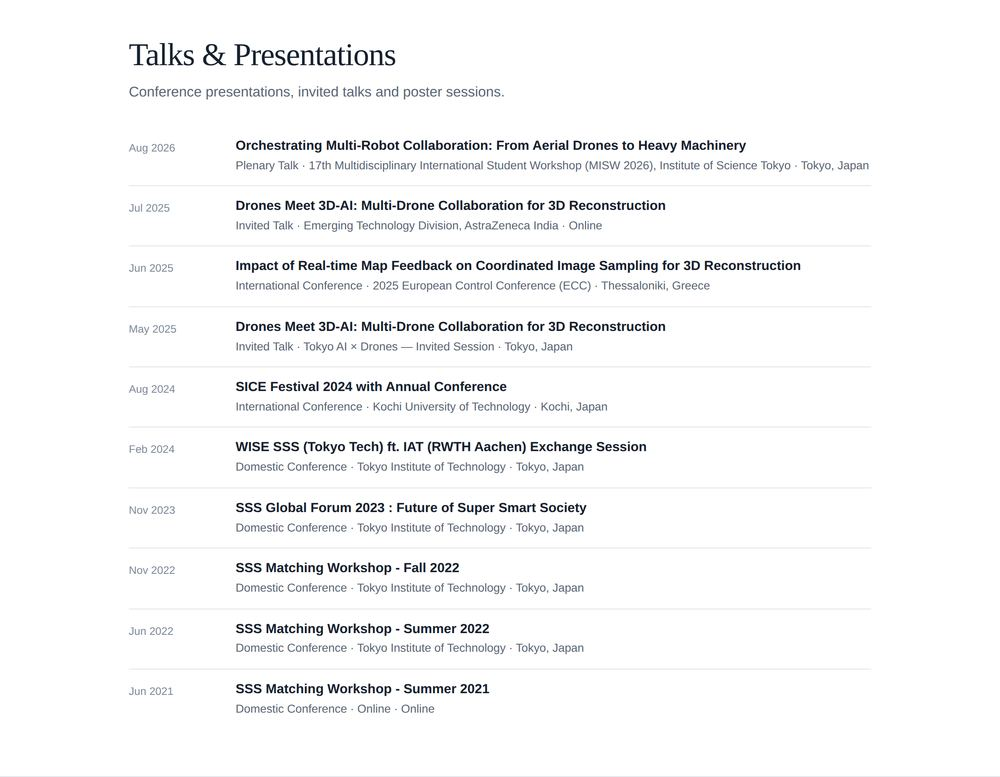
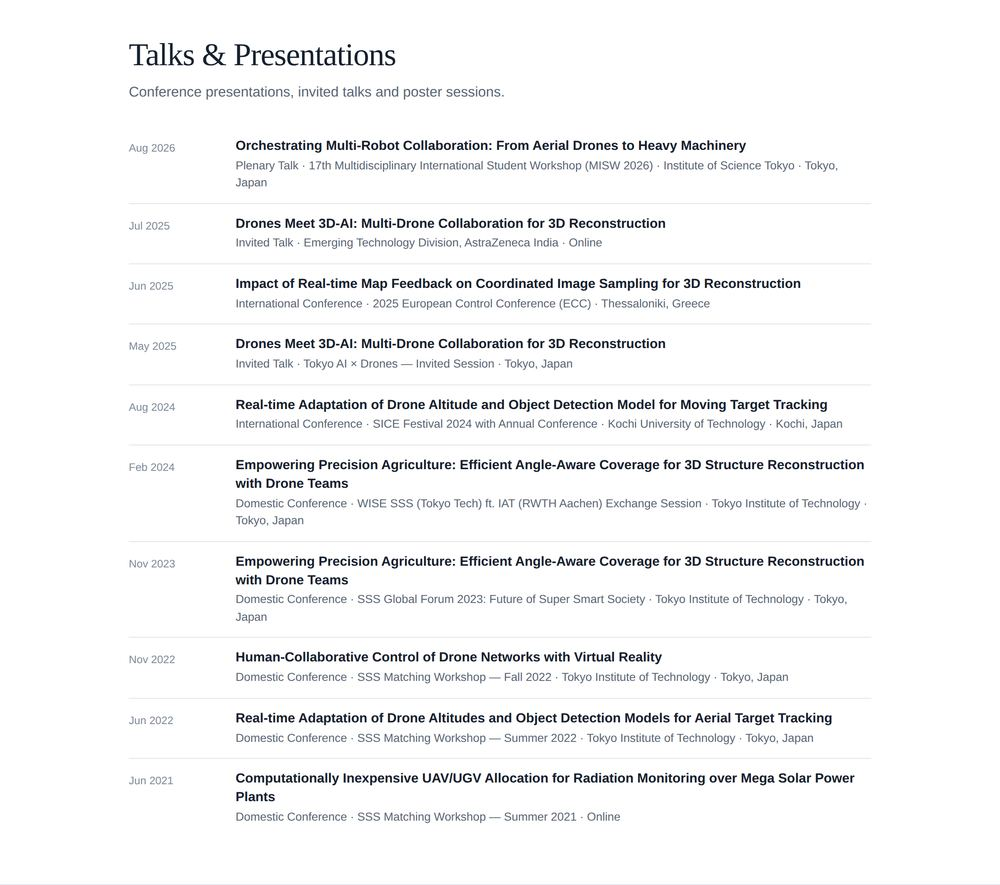
Lead talk entries with the talk title, not the event name
Six entries were headlined by the event rather than what was actually
presented -- "SICE Festival 2024 with Annual Conference", "SSS Matching
Workshop - Fall 2022" and so on -- so the list read as a list of events
attended rather than talks given.

The talk title is now the heading, and the event moves into the meta line
alongside type, host institution and location. Titles are taken from the talk
subjects already recorded in each entry's body and in the CV:

  Jun 2021  Computationally Inexpensive UAV/UGV Allocation for Radiation
            Monitoring over Mega Solar Power Plants
  Jun 2022  Real-time Adaptation of Drone Altitudes and Object Detection
            Models for Aerial Target Tracking
  Nov 2022  Human-Collaborative Control of Drone Networks with Virtual Reality
  Nov 2023  Empowering Precision Agriculture: Efficient Angle-Aware Coverage
  Feb 2024  (same talk, RWTH Aachen exchange session)
  Aug 2024  Real-time Adaptation of Drone Altitude and Object Detection Model
            for Moving Target Tracking

Adds an `event:` field for this, used on both the talks page and the homepage
list. Where event and venue were the same string the duplicate venue is
dropped, so no row repeats itself.

diff --git a/_layouts/home.html b/_layouts/home.html
@@ -143,7 +143,7 @@ layout: default
         <span class="row-date">{{ talk.date | date: "%b %Y" }}</span>
         <span class="row-body">
           <a class="row-title" href="{{ talk.url | relative_url }}">{{ talk.title }}</a>
-          <span class="row-meta">{{ talk.type }}{% if talk.venue %} &middot; {{ talk.venue }}{% endif %}{% if talk.location %} &middot; {{ talk.location }}{% endif %}</span>
+          <span class="row-meta">{{ talk.type }}{% if talk.event %} &middot; {{ talk.event }}{% endif %}{% if talk.venue %} &middot; {{ talk.venue }}{% endif %}{% if talk.location %} &middot; {{ talk.location }}{% endif %}</span>
         </span>
       </li>
       {% endfor %}

diff --git a/_pages/talks.html b/_pages/talks.html
@@ -19,7 +19,7 @@ description: "Talks and presentations given by Muhammad Hanif at conferences, wo
         <span class="row-body">
           <a class="row-title" href="{{ talk.url | relative_url }}">{{ talk.title }}</a>
           <span class="row-meta">
-            {{ talk.type }}{% if talk.venue %} &middot; {{ talk.venue }}{% endif %}{% if talk.location %} &middot; {{ talk.location }}{% endif %}
+            {{ talk.type }}{% if talk.event %} &middot; {{ talk.event }}{% endif %}{% if talk.venue %} &middot; {{ talk.venue }}{% endif %}{% if talk.location %} &middot; {{ talk.location }}{% endif %}
           </span>
         </span>
       </li>

diff --git a/_talks/2026-08-03-misw-2026.md b/_talks/2026-08-03-misw-2026.md
@@ -2,8 +2,9 @@
 title: "Orchestrating Multi-Robot Collaboration: From Aerial Drones to Heavy Machinery"
 collection: talks
 type: "Plenary Talk"
+event: "17th Multidisciplinary International Student Workshop (MISW 2026)"
 permalink: /talks/2026-08-03-misw-2026
-venue: "17th Multidisciplinary International Student Workshop (MISW 2026), Institute of Science Tokyo"
+venue: "Institute of Science Tokyo"
 date: 2026-08-03
 location: "Tokyo, Japan"
 ---

diff --git a/_talks/2024-02-29-aachen.md b/_talks/2024-02-29-aachen.md
@@ -1,7 +1,8 @@
 ---
-title: "WISE SSS (Tokyo Tech) ft. IAT (RWTH Aachen) Exchange Session"
+title: "Empowering Precision Agriculture: Efficient Angle-Aware Coverage for 3D Structure Reconstruction with Drone Teams"
 collection: talks
 type: "Domestic Conference"
+event: "WISE SSS (Tokyo Tech) ft. IAT (RWTH Aachen) Exchange Session"
 permalink: /talks/2024-02-29-aachen
 venue: "Tokyo Institute of Technology"
 date: 2024-02-29

diff --git a/_talks/2023-11-03-global-forum-2023.md b/_talks/2023-11-03-global-forum-2023.md
@@ -1,7 +1,8 @@
 ---
-title: "SSS Global Forum 2023 : Future of Super Smart Society"
+title: "Empowering Precision Agriculture: Efficient Angle-Aware Coverage for 3D Structure Reconstruction with Drone Teams"
 collection: talks
 type: "Domestic Conference"
+event: "SSS Global Forum 2023: Future of Super Smart Society"
 permalink: /talks/2023-11-03-global-forum-2023
 venue: "Tokyo Institute of Technology"
 date: 2023-11-03

diff --git a/_talks/2021-06-09-mws-summer-2021.md b/_talks/2021-06-09-mws-summer-2021.md
@@ -1,9 +1,9 @@
 ---
-title: "SSS Matching Workshop - Summer 2021"
+title: "Computationally Inexpensive UAV/UGV Allocation for Radiation Monitoring over Mega Solar Power Plants"
 collection: talks
 type: "Domestic Conference"
+event: "SSS Matching Workshop — Summer 2021"
 permalink: /talks/2021-06-09-mws-summer-2021
-venue: "Online"
 date: 2021-06-09
 location: "Online"
 ---

diff --git a/_talks/2024-08-28-kochi.md b/_talks/2024-08-28-kochi.md
@@ -1,7 +1,8 @@
 ---
-title: "SICE Festival 2024 with Annual Conference"
+title: "Real-time Adaptation of Drone Altitude and Object Detection Model for Moving Target Tracking"
 collection: talks
 type: "International Conference"
+event: "SICE Festival 2024 with Annual Conference"
 permalink: /talks/2024-08-28-kochi
 venue: "Kochi University of Technology"
 date: 2024-08-28

diff --git a/_talks/2022-06-08-mws-summer-2022.md b/_talks/2022-06-08-mws-summer-2022.md
@@ -1,7 +1,8 @@
 ---
-title: "SSS Matching Workshop - Summer 2022"
+title: "Real-time Adaptation of Drone Altitudes and Object Detection Models for Aerial Target Tracking"
 collection: talks
 type: "Domestic Conference"
+event: "SSS Matching Workshop — Summer 2022"
 permalink: /talks/2022-06-08-mws-summer-2022
 venue: "Tokyo Institute of Technology"
 date: 2022-06-08

diff --git a/_talks/2025-06-25-ecc-thessaloniki.md b/_talks/2025-06-25-ecc-thessaloniki.md
@@ -2,8 +2,8 @@
 title: "Impact of Real-time Map Feedback on Coordinated Image Sampling for 3D Reconstruction"
 collection: talks
 type: "International Conference"
+event: "2025 European Control Conference (ECC)"
 permalink: /talks/2025-06-25-ecc-thessaloniki
-venue: "2025 European Control Conference (ECC)"
 date: 2025-06-25
 location: "Thessaloniki, Greece"
 ---

diff --git a/_talks/2022-11-16-mws-fall-2022.md b/_talks/2022-11-16-mws-fall-2022.md
@@ -1,7 +1,8 @@
 ---
-title: "SSS Matching Workshop - Fall 2022"
+title: "Human-Collaborative Control of Drone Networks with Virtual Reality"
 collection: talks
 type: "Domestic Conference"
+event: "SSS Matching Workshop — Fall 2022"
 permalink: /talks/2022-11-16-mws-fall-2022
 venue: "Tokyo Institute of Technology"
 date: 2022-11-16

diff --git a/_talks/2025-07-15-astrazeneca.md b/_talks/2025-07-15-astrazeneca.md
@@ -2,8 +2,8 @@
 title: "Drones Meet 3D-AI: Multi-Drone Collaboration for 3D Reconstruction"
 collection: talks
 type: "Invited Talk"
+event: "Emerging Technology Division, AstraZeneca India"
 permalink: /talks/2025-07-15-astrazeneca
-venue: "Emerging Technology Division, AstraZeneca India"
 date: 2025-07-15
 location: "Online"
 ---

diff --git a/_talks/2025-05-30-tokyo-ai-drones.md b/_talks/2025-05-30-tokyo-ai-drones.md
@@ -2,8 +2,8 @@
 title: "Drones Meet 3D-AI: Multi-Drone Collaboration for 3D Reconstruction"
 collection: talks
 type: "Invited Talk"
+event: "Tokyo AI × Drones — Invited Session"
 permalink: /talks/2025-05-30-tokyo-ai-drones
-venue: "Tokyo AI × Drones — Invited Session"
 date: 2025-05-30
 location: "Tokyo, Japan"
 ---
